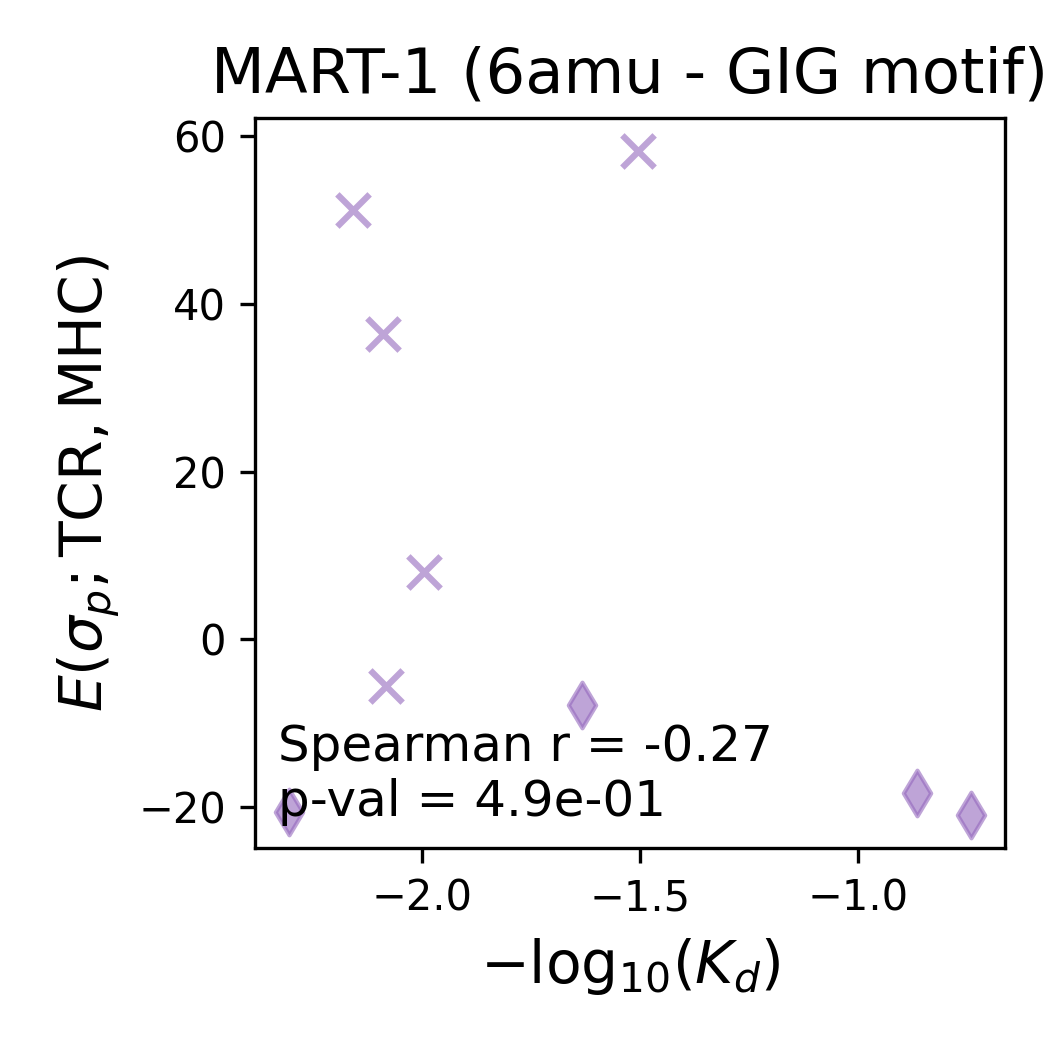
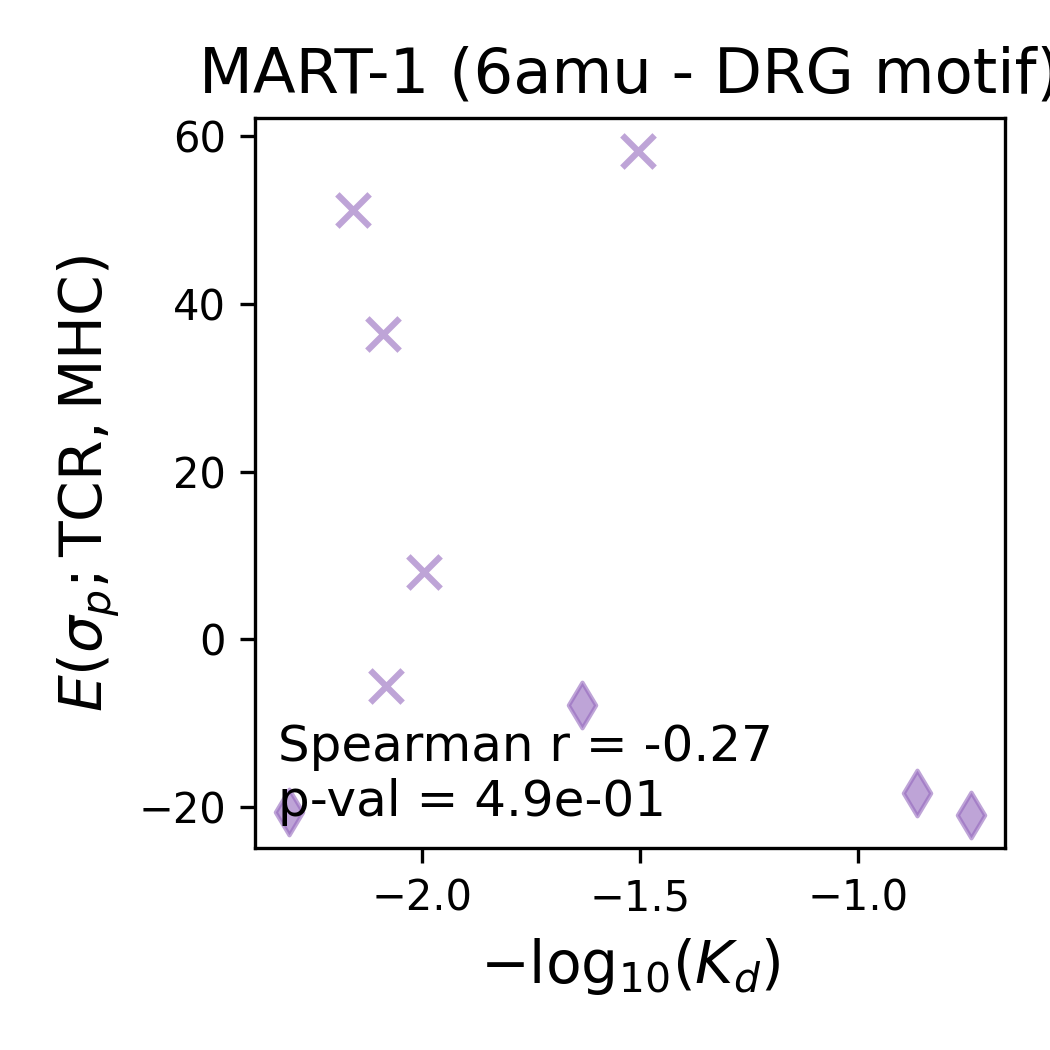
plots

Changed region(s): [[0.1829, 0.0305, 1.0, 0.0914]]

diff --git a/src/very_pretty_scatterplot.py b/src/very_pretty_scatterplot.py
@@ -58,7 +58,7 @@ SYSTEM_CSV_TO_TITLE = {
     'mart_peptide_kd_closest': 'MART-1 (right motifs)',
     'mart_peptide_kd_3qdg': 'MART-1 (3qdg - GIG motif)',
     'mart_peptide_kd_6am5': 'MART-1 (6am5 - GIG motif)',
-    'mart_peptide_kd_6amu': 'MART-1 (6amu - GIG motif)',
+    'mart_peptide_kd_6amu': 'MART-1 (6amu - DRG motif)',
     'hsiue_et_al_H2_sat_mut': 'H2-scDb on p53$^\\text{R175H}$',
     'mskcc_tcr1_ec50_sat_mut_af3': 'TCR1 on NLVPMVATV',
     'mskcc_tcr2_ec50_sat_mut_af3': 'TCR2 on NLVPMVATV (AF3)',
